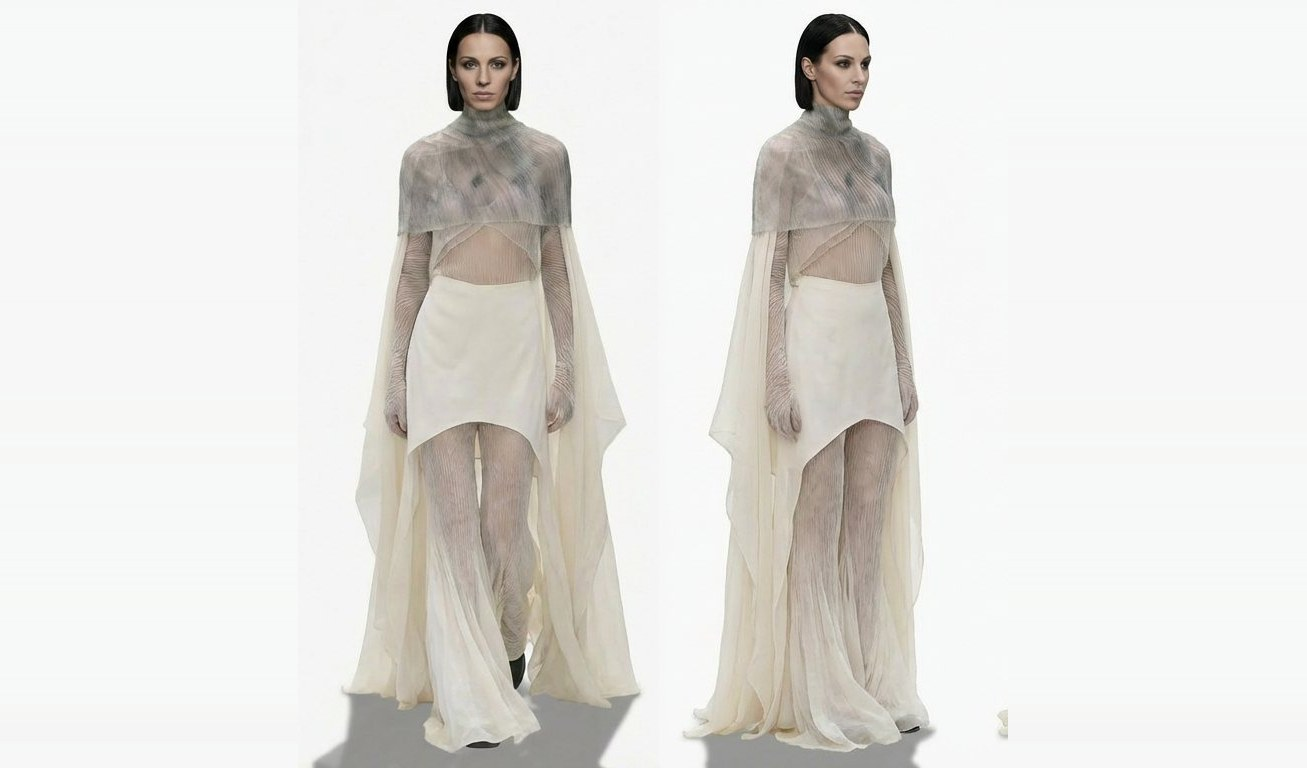
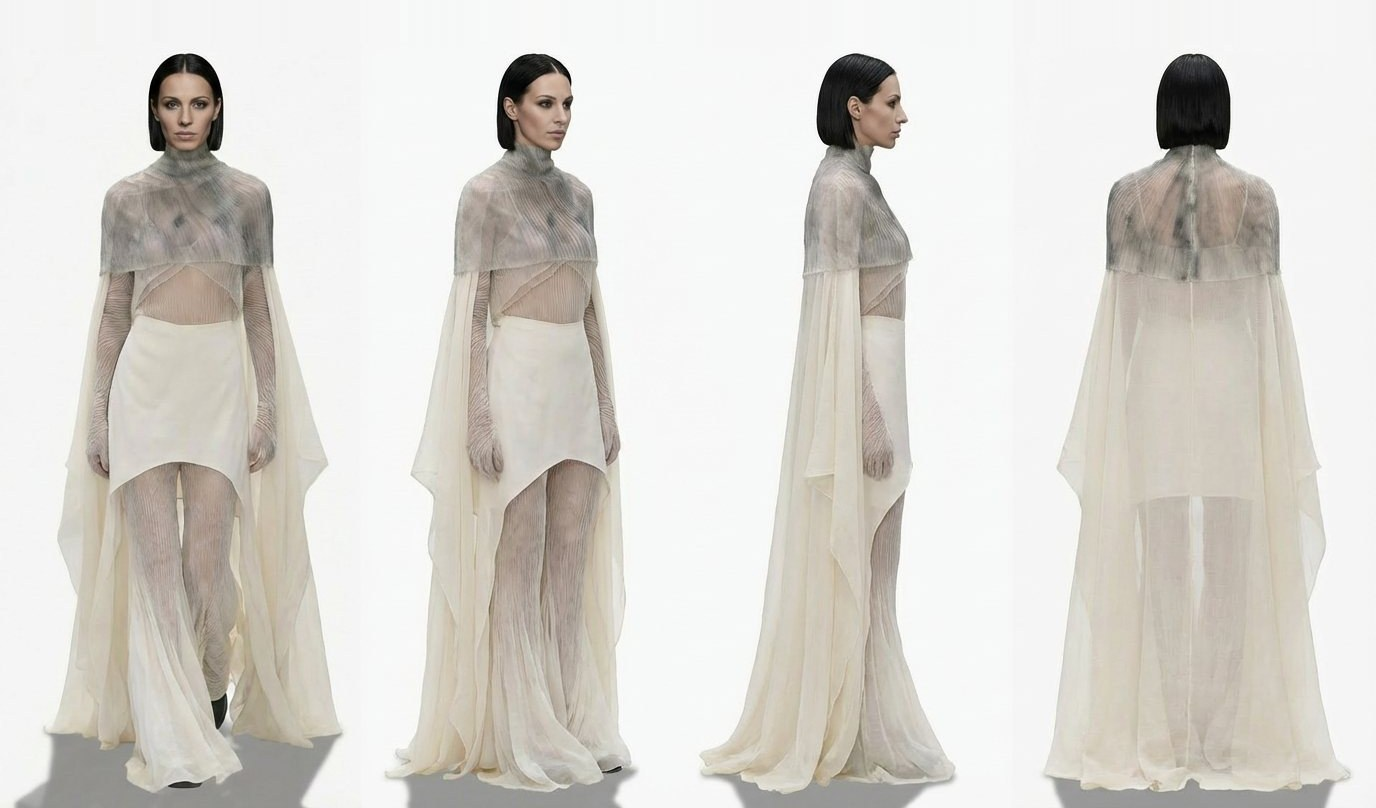
image change

diff --git a/tools/fit_ai_images.py b/tools/fit_ai_images.py
@@ -6,10 +6,14 @@ is far from its slot loses its edges — and these are line-ups, where an edge
 is a whole character. Rather than reshape the grid, each sheet is prepared to
 its slot's exact ratio here, so the browser has nothing left to crop:
 
-  bikura  wide     16:9.4   left alone (a 4% side trim clears every figure)
-  shrike  standard 4:3      cropped to the LEFT TWO figures, then padded
-  semfa   wide     16:9.4   cropped to the LEFT TWO figures, then padded
+  bikura  wide     16:9.4   left alone (a 2% side trim clears every figure)
+  shrike  standard 4:3      all four kept, padded top and bottom
+  semfa   wide     16:9.4   all four kept, padded top and bottom
   tuk     standard 4:3      all four kept, padded top and bottom
+
+All four sheets now keep every view. Shrike and Semfa were once cut down to
+their left two figures to fill their slots; padding them to height instead
+keeps the full turnaround, which is what the sheets are for.
 
 Padding extends the sheets' white and gradient grounds. The fill is the
 per-row MEDIAN of a band of background-only columns, not a copy of one column:
@@ -32,13 +36,19 @@ WIDE = 16 / 9.4       # .card--wide
 STANDARD = 4 / 3      # .card--standard
 
 # (file, label, slot ratio, crop window or None, background column bands to
-# median for the side fill — coordinates are in the CROPPED image)
+# median for the side fill, vertical padding anchor)
+#
+# `anchor` decides where added HEIGHT goes. "center" splits it top and bottom,
+# which needs both edge rows to be clean background. Semfa's bottom row runs
+# straight through the dress hems and their floor shadows, and stretching that
+# row downwards smears them into vertical streaks — so its padding all goes
+# above the heads, where the sheet is empty white.
 JOBS = [
     # bikura is left alone: its 1.777 in a 1.702 frame trims 2% a side, which
     # clears every figure, and padding it smeared the grass along the bottom.
-    ("work-ai-02.jpg", "shrike", STANDARD, (0, 0, 930, None), [(0, 110), (830, 925)]),
-    ("work-ai-03.jpg", "semfa", WIDE, (0, 0, 710, None), [(0, 60), (630, 705)]),
-    ("work-ai-04.jpg", "tuk", STANDARD, None, None),
+    ("work-ai-02.jpg", "shrike", STANDARD, None, None, "center"),
+    ("work-ai-03.jpg", "semfa", WIDE, None, None, "top"),
+    ("work-ai-04.jpg", "tuk", STANDARD, None, None, "center"),
 ]
 
 
@@ -50,7 +60,7 @@ def background_column(im, bands):
     return Image.fromarray(med[:, None, :], "RGB")
 
 
-def pad_to_ratio(im, target, bands=None):
+def pad_to_ratio(im, target, bands=None, anchor="center"):
     """Grow the canvas to `target`, filling with clean background."""
     w, h = im.size
     if w / h < target:                      # too narrow — add width
@@ -65,15 +75,22 @@ def pad_to_ratio(im, target, bands=None):
         return out
     new_h = round(w / target)               # too wide — add height
     extra = new_h - h
-    top, bottom = extra // 2, extra - extra // 2
+    if anchor == "top":                     # all of it above the figures
+        top, bottom = extra, 0
+    elif anchor == "bottom":
+        top, bottom = 0, extra
+    else:
+        top, bottom = extra // 2, extra - extra // 2
     out = Image.new("RGB", (w, new_h))
-    out.paste(im.crop((0, 0, w, 1)).resize((w, top)), (0, 0))
+    if top:
+        out.paste(im.crop((0, 0, w, 1)).resize((w, top)), (0, 0))
     out.paste(im, (0, top))
-    out.paste(im.crop((0, h - 1, w, h)).resize((w, bottom)), (0, top + h))
+    if bottom:
+        out.paste(im.crop((0, h - 1, w, h)).resize((w, bottom)), (0, top + h))
     return out
 
 
-for name, label, target, window, bands in JOBS:
+for name, label, target, window, bands, anchor in JOBS:
     path = os.path.join(OUT, name)
     im = Image.open(path).convert("RGB")
     before = im.size
@@ -86,7 +103,7 @@ for name, label, target, window, bands in JOBS:
         x0, y0, x1, y1 = window
         im = im.crop((x0, y0, x1, y1 if y1 is not None else im.size[1]))
 
-    im = pad_to_ratio(im, target, bands)
+    im = pad_to_ratio(im, target, bands, anchor)
     im.save(path, "JPEG", quality=88, optimize=True, progressive=True)
     print(
         f"{label:<8} {before[0]}x{before[1]} -> {im.size[0]}x{im.size[1]}"
